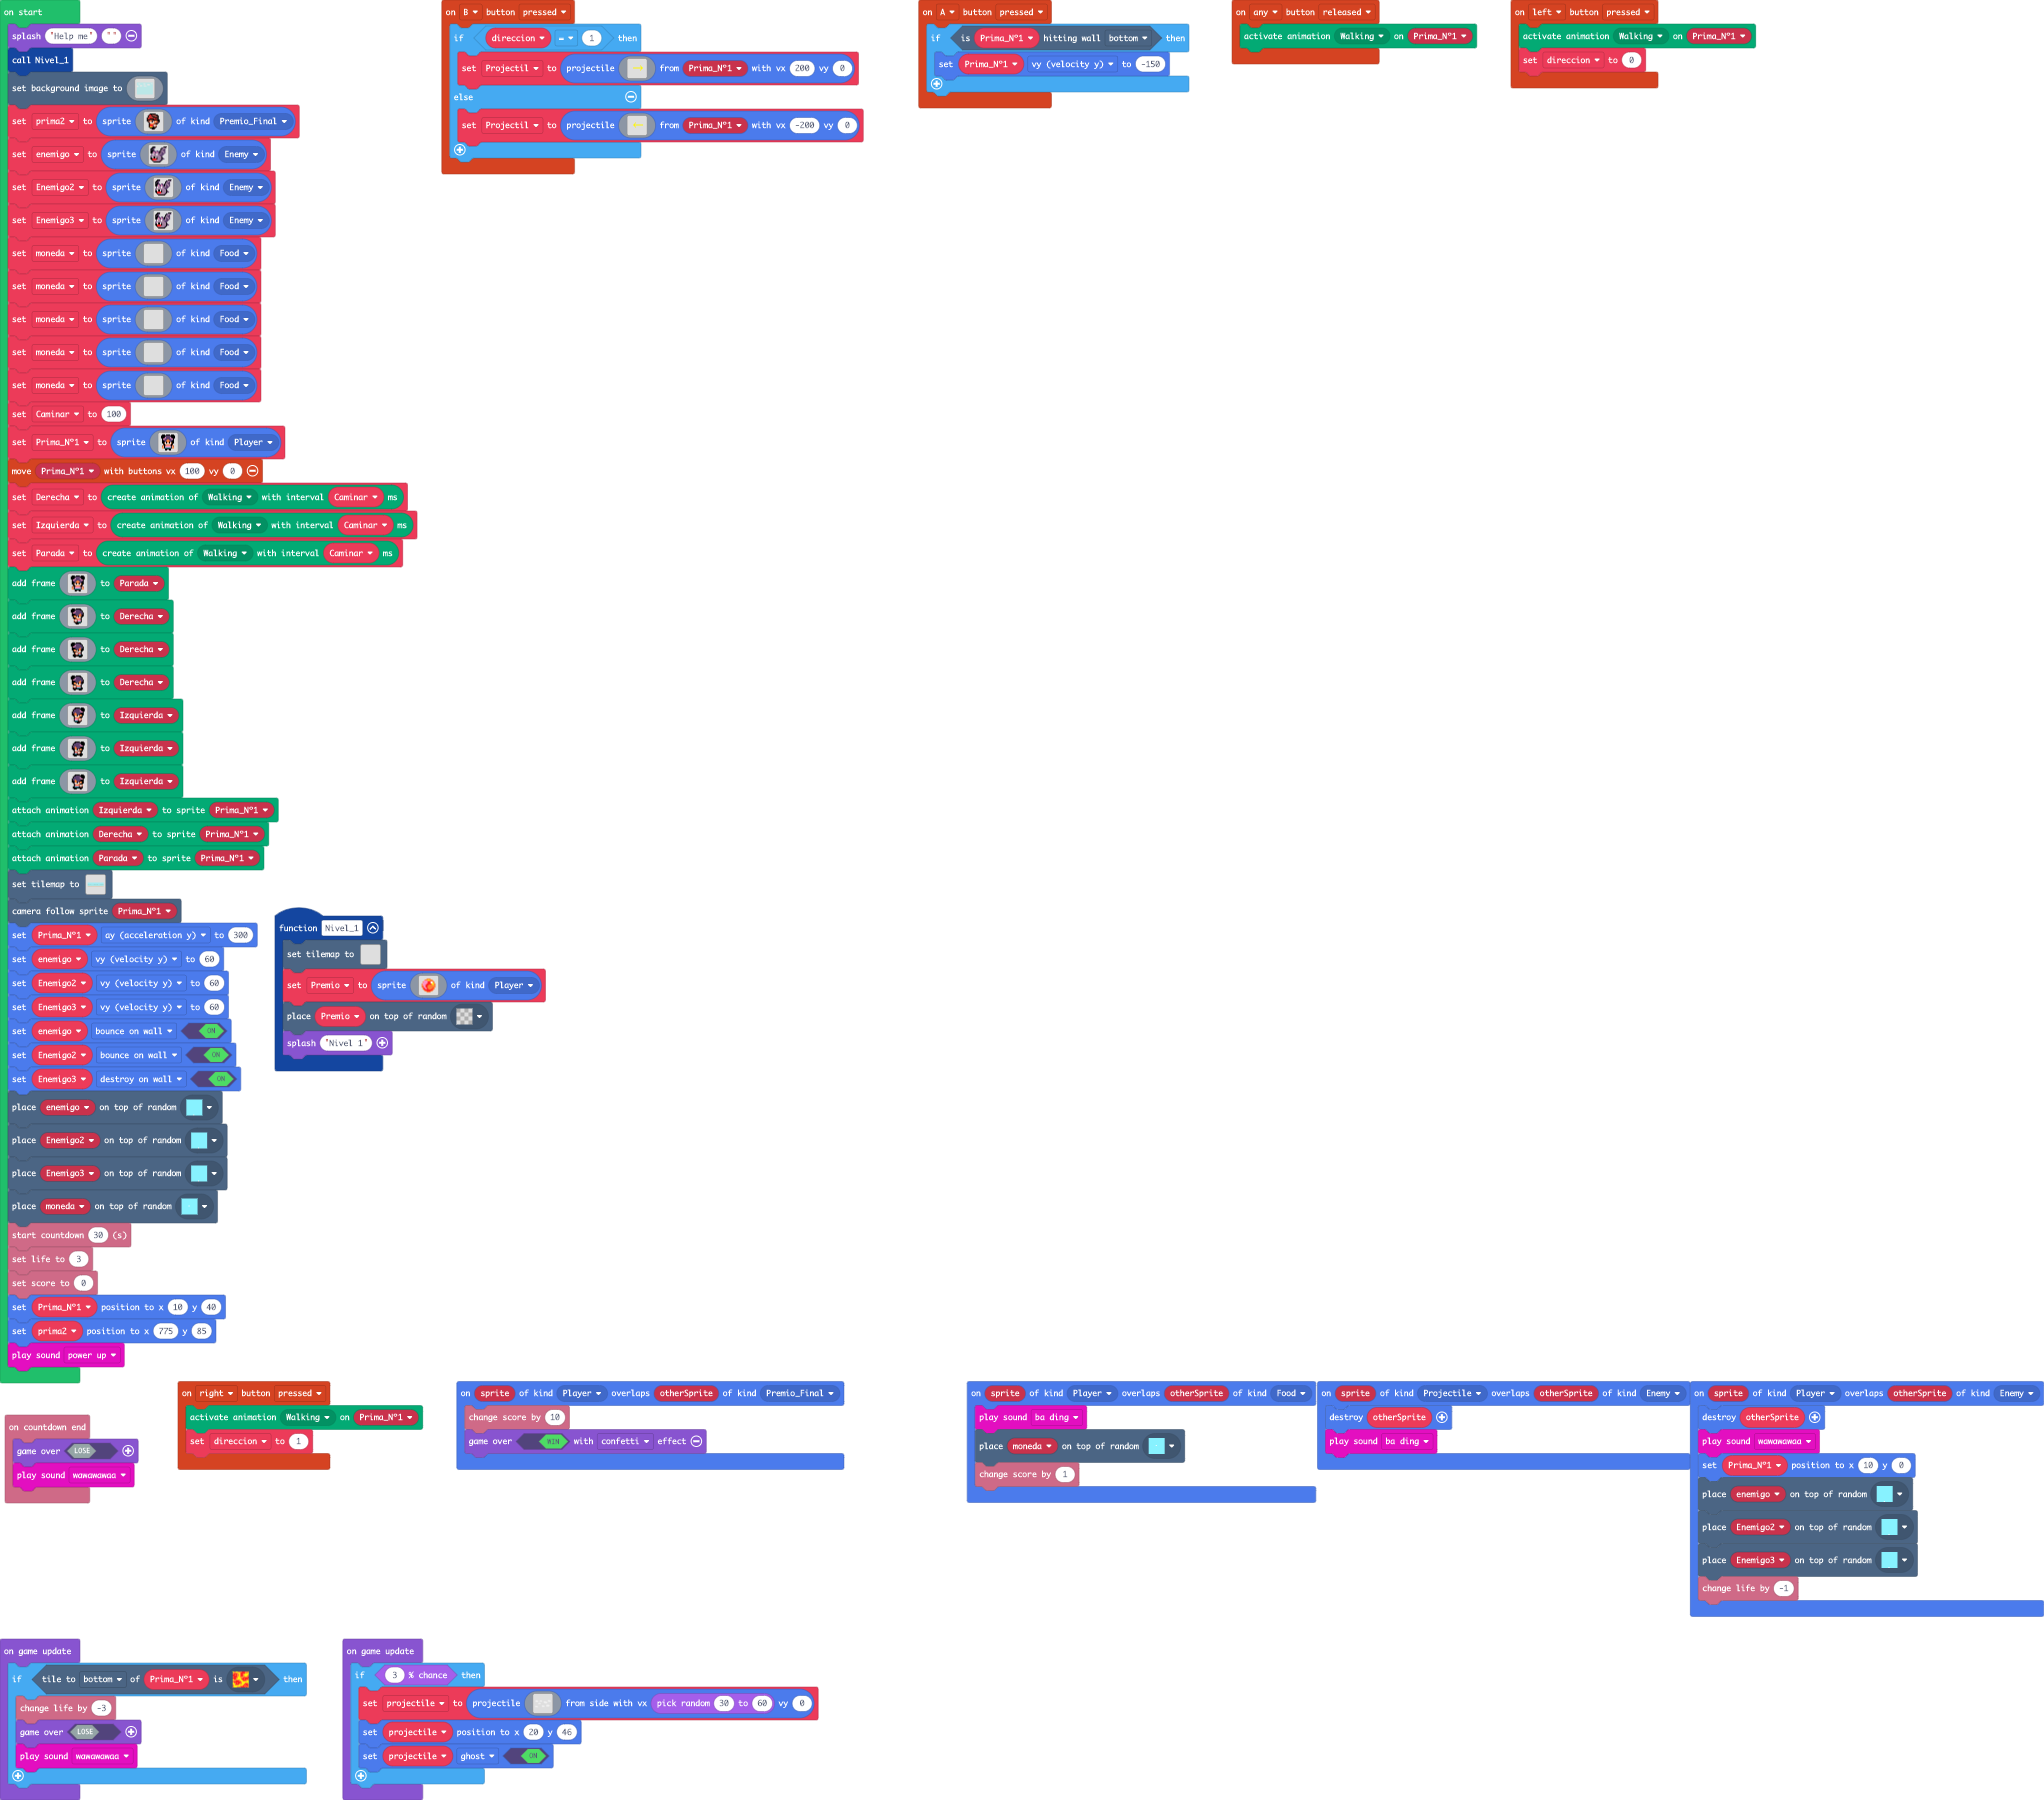
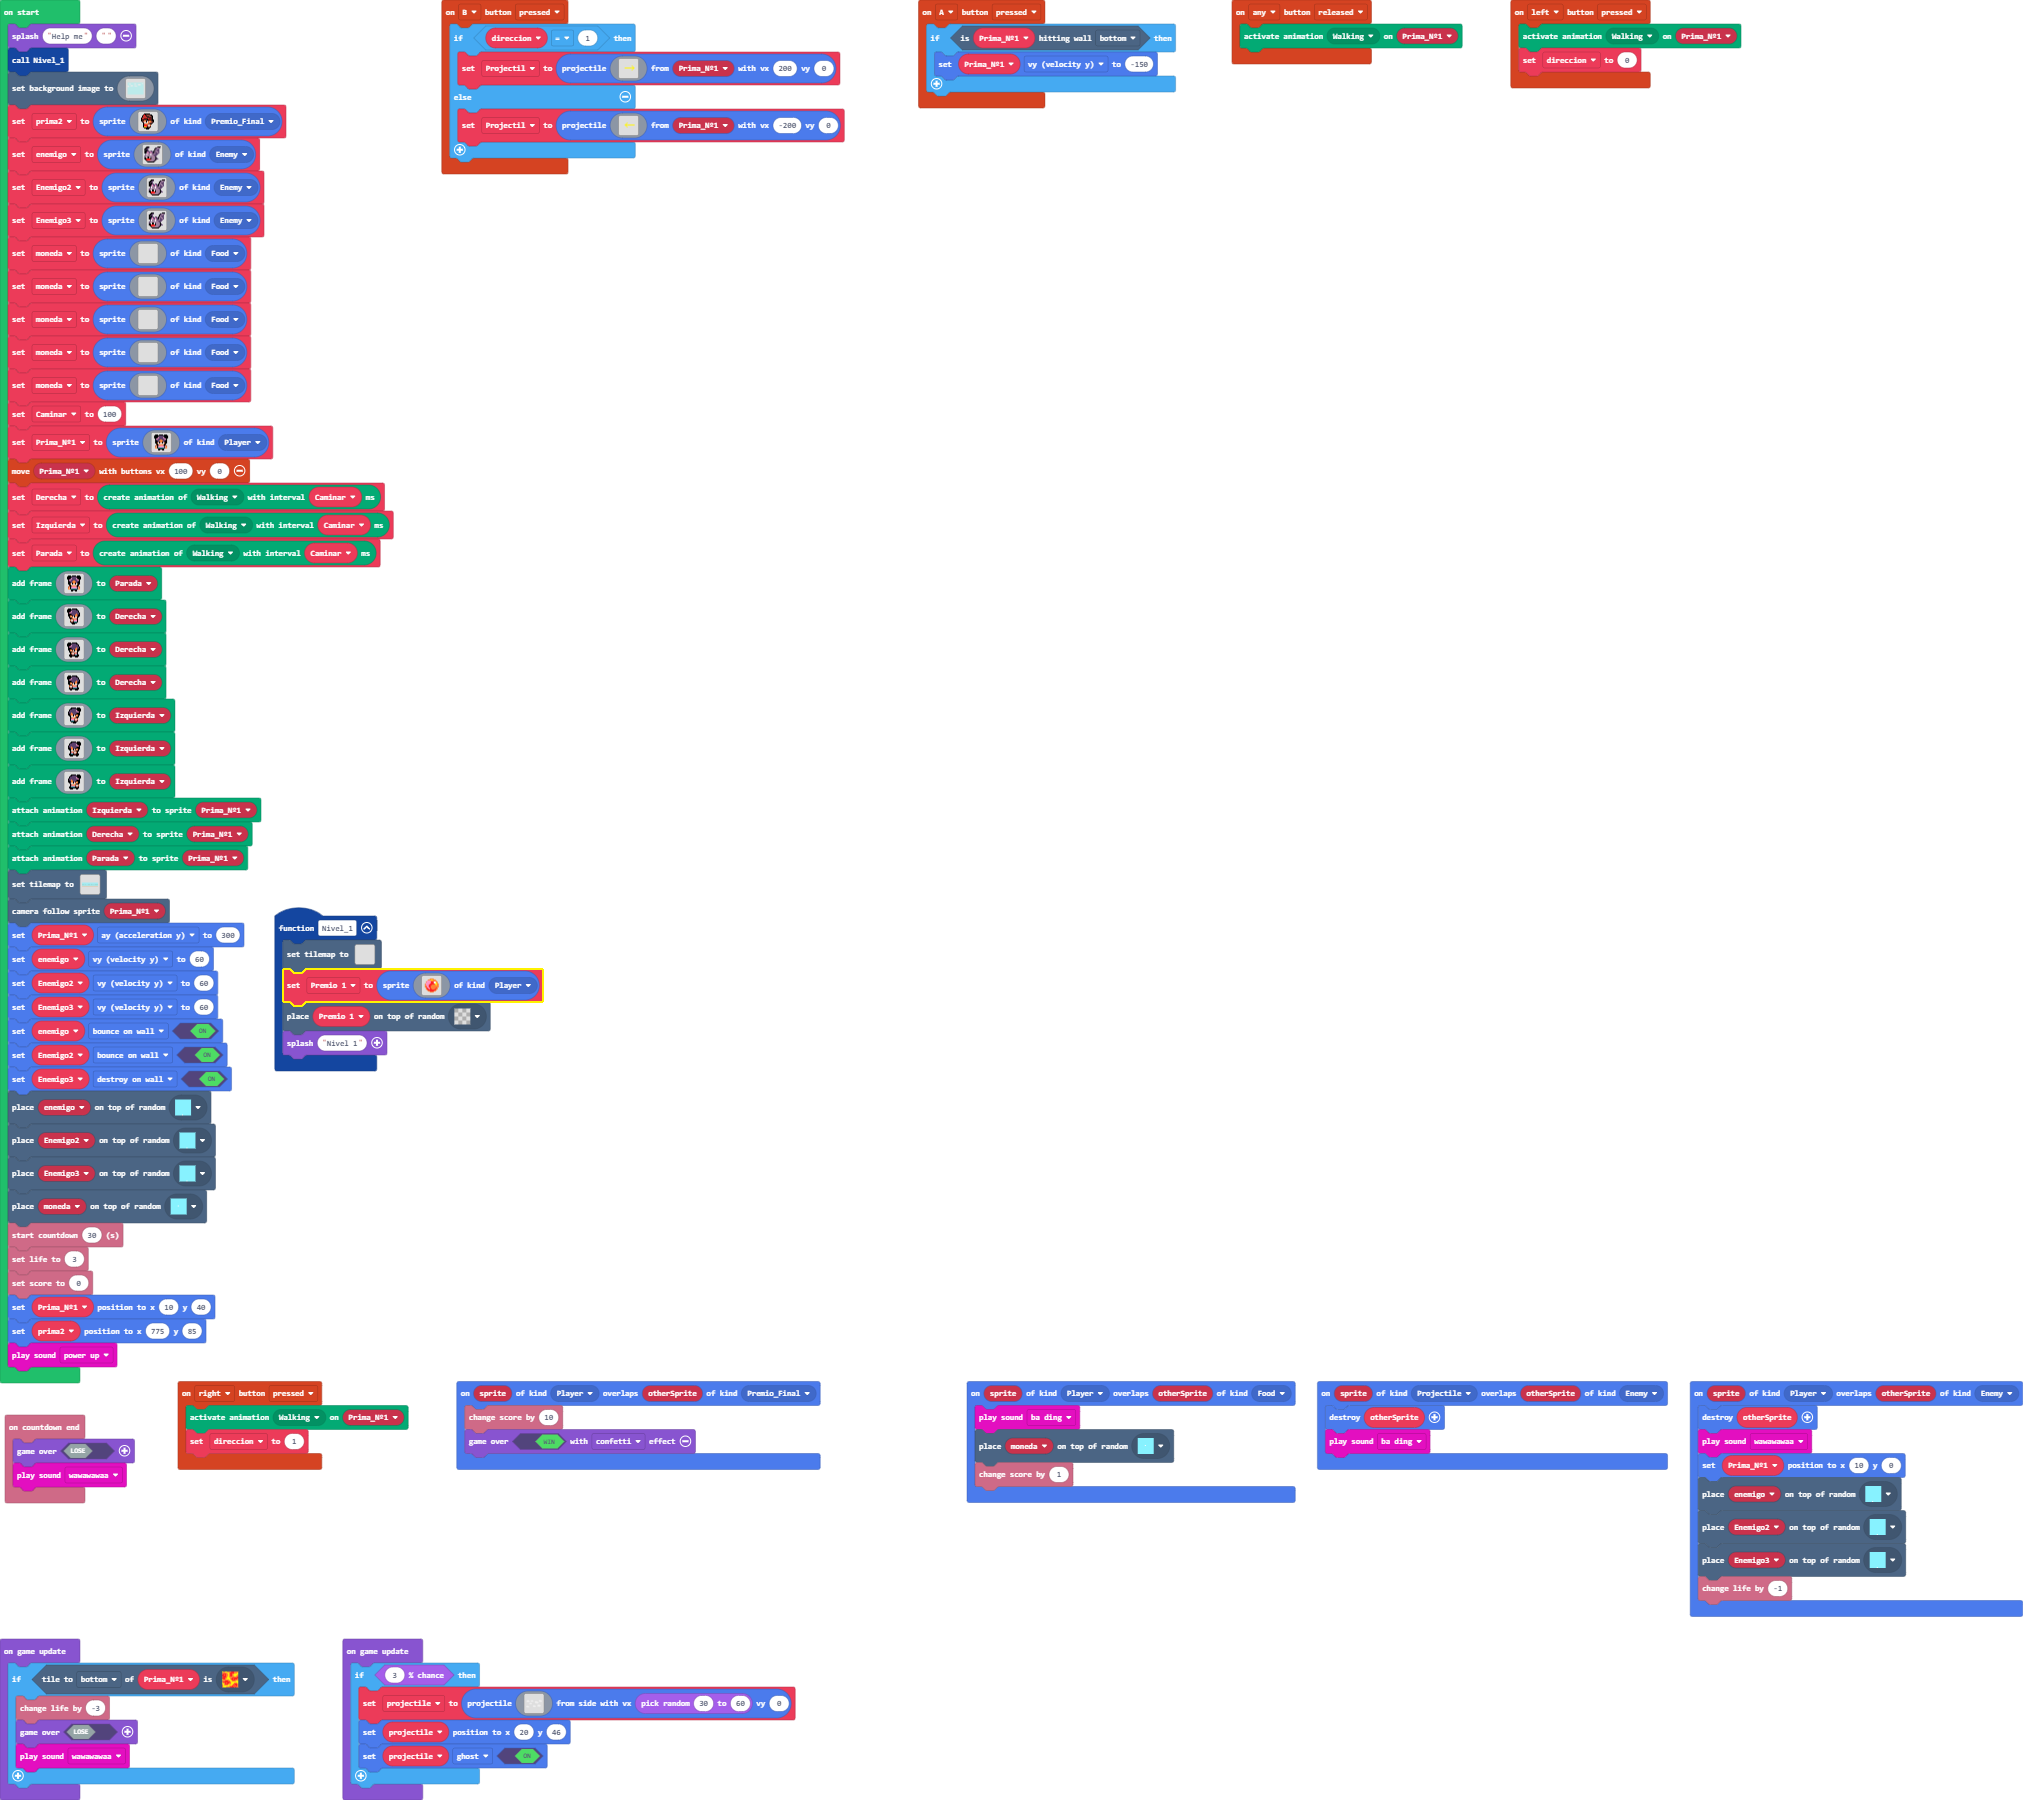
Coloque premio 1

diff --git a/main.ts b/main.ts
@@ -70,7 +70,7 @@ function Nivel_1 () {
         . . . . . . . . . . . . . . . . 
         . . . . . . . . . . . . . . . . 
         `, [myTiles.transparency16], TileScale.Sixteen))
-    Premio = sprites.create(img`
+    Premio_1 = sprites.create(img`
         . . . . . . . . . . . . . . . . 
         . . . . . . 4 4 4 4 . . . . . . 
         . . . . 4 4 4 5 5 4 4 4 . . . . 
@@ -88,7 +88,7 @@ function Nivel_1 () {
         . . . . . . 4 4 4 4 . . . . . . 
         . . . . . . . . . . . . . . . . 
         `, SpriteKind.Player)
-    tiles.placeOnRandomTile(Premio, myTiles.transparency16)
+    tiles.placeOnRandomTile(Premio_1, myTiles.transparency16)
     game.splash("Nivel 1")
 }
 controller.A.onEvent(ControllerButtonEvent.Pressed, function () {
@@ -134,7 +134,7 @@ sprites.onOverlap(SpriteKind.Player, SpriteKind.Enemy, function (sprite, otherSp
     info.changeLifeBy(-1)
 })
 let projectile: Sprite = null
-let Premio: Sprite = null
+let Premio_1: Sprite = null
 let Projectil: Sprite = null
 let direccion = 0
 let Prima_Nº1: Sprite = null
